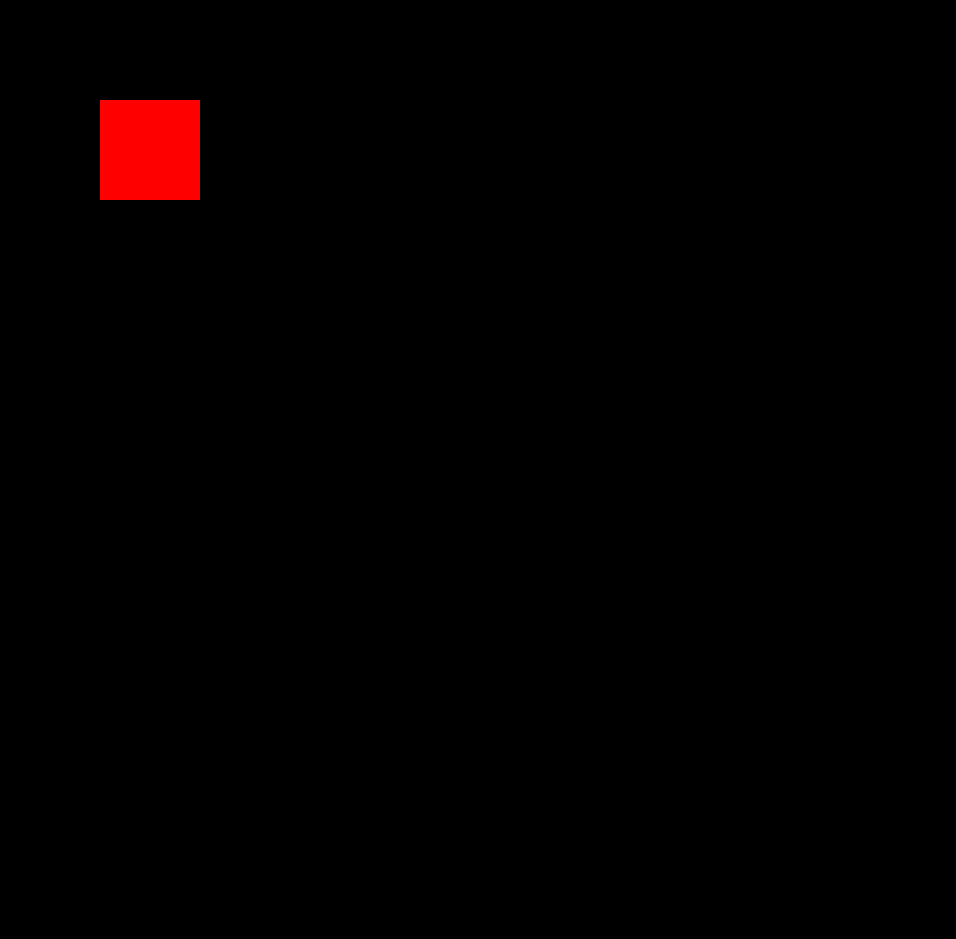
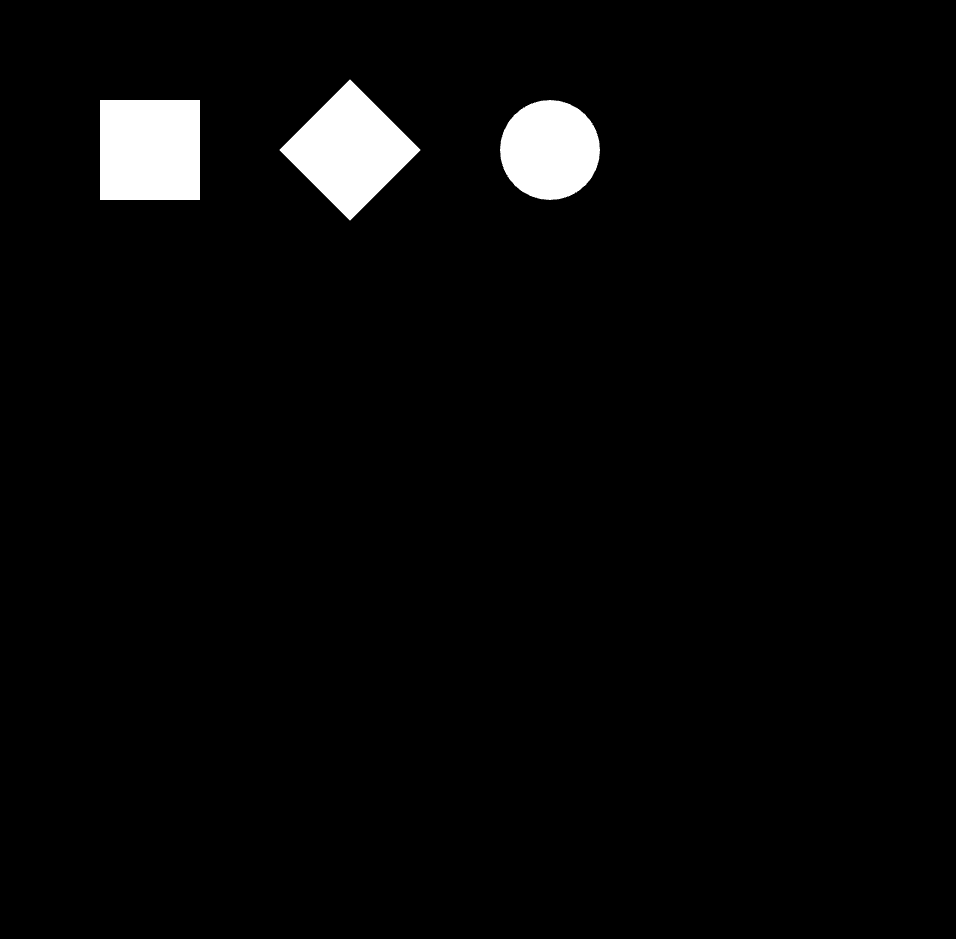
feat: working rotation

Changed region(s): [[0.273, 0.0927, 0.455, 0.2471], [0.091, 0.0927, 0.2123, 0.2162], [0.5157, 0.0927, 0.637, 0.2162]]

diff --git a/src/client/Graphics.ts b/src/client/Graphics.ts
@@ -180,7 +180,8 @@ export class Graphics {
     rotate(rCenter: Point, i: number, numPoints: number) {
         const c = Math.cos(this.rotation);
         const s = Math.sin(this.rotation);
-        let x = 0, y = 0;
+        let x = 0,
+            y = 0;
 
         for (let j = i; j < i + numPoints; j++) {
             x = this.vertices[j]!.pos.x - rCenter.x;
@@ -250,7 +251,7 @@ export class Graphics {
             null,
             CommandBuffer.PRIMTYPE_QUADS,
             this.numVertices / 4,
-            this.vertices,
+            this.vertices.map((vertex) => vertex.clone()),
         );
 
         if (!keepVertices) {
@@ -266,7 +267,7 @@ export class Graphics {
             throw new Error('AAAAAAAAAAAAAAAAAAa');
         }
 
-        this.flushVertices(false);
+        this.flushVertices();
         this.drawing = 0;
     }
 
@@ -404,7 +405,15 @@ export class Graphics {
         }
     }
 
-    drawRect(x: number, y: number, w: number, h: number, color: ColorRGBA, corners: number, rounding: number) {
+    drawRect(
+        x: number,
+        y: number,
+        w: number,
+        h: number,
+        color: ColorRGBA,
+        corners: number,
+        rounding: number,
+    ) {
         this.quadsBegin();
         this.setColorC(color);
         this.drawRectExt(x, y, w, h, rounding, corners);

diff --git a/src/index.ts b/src/index.ts
@@ -1,5 +1,8 @@
 import {
     CORNER_BL,
+    CORNER_BR,
+    CORNER_TL,
+    CORNER_TR,
     Graphics,
 } from './client/Graphics';
 import { ColorRGBA } from './client/common';
@@ -7,11 +10,24 @@ import { ColorRGBA } from './client/common';
 function update(graphics: Graphics) {
     graphics.clear(0, 0, 0, false);
 
+    graphics.drawRect(
+        500,
+        100,
+        100,
+        100,
+        new ColorRGBA(1, 1, 1, 1),
+        CORNER_BL | CORNER_TR | CORNER_BR | CORNER_TL,
+        50,
+    );
+
     graphics.quadsBegin();
 
-    graphics.quadsSetRotation(.1);
     graphics.setColor(1, 1, 1, 1);
-    graphics.drawRectExt(100, 100, 100, 100, 50, 0);
+
+    graphics.drawRectExt(100, 100, 100, 100, 0, 0);
+
+    graphics.quadsSetRotation(Math.PI / 4);
+    graphics.drawRectExt(300, 100, 100, 100, 0, 0);
 
     graphics.quadsEnd();
 

diff --git a/src/client/common.ts b/src/client/common.ts
@@ -16,6 +16,10 @@ export class TexCoord {
         public u: number,
         public v: number,
     ) {}
+
+    clone() {
+        return new TexCoord(this.u, this.v);
+    }
 }
 
 export class FreeformItem {
@@ -58,6 +62,10 @@ export class Point {
         public x: number,
         public y: number,
     ) {}
+
+    clone() {
+        return new Point(this.x, this.y);
+    }
 }
 
 export class Vertex {
@@ -66,4 +74,12 @@ export class Vertex {
         public tex: TexCoord,
         public color: ColorRGBA,
     ) {}
+
+    clone() {
+        return new Vertex(
+            this.pos.clone(),
+            this.tex.clone(),
+            this.color.clone(),
+        );
+    }
 }

diff --git a/src/client/CommandWebGL2CommandProcessorFragment.ts b/src/client/CommandWebGL2CommandProcessorFragment.ts
@@ -31,7 +31,7 @@ export class CommandWebGL2CommandProcessorFragment {
 
     quadDrawIndexBuffer!: WebGLBuffer;
 
-    constructor(public glContext: WebGL2RenderingContext) { }
+    constructor(public glContext: WebGL2RenderingContext) {}
 
     async cmdInit(command: CommandInit) {
         console.log('Im in a init command', command);

diff --git a/README.md b/README.md
@@ -7,4 +7,4 @@
 
 </div>
 It can draw a rectangle, how cool is that!? Also you can draw a rounded rectangle!
-Also you can set a custom background color. As you can see it has a lot of features.
+Also you can set a custom background color and last but not least, rotated rectangle! As you can see it has a lot of features.
